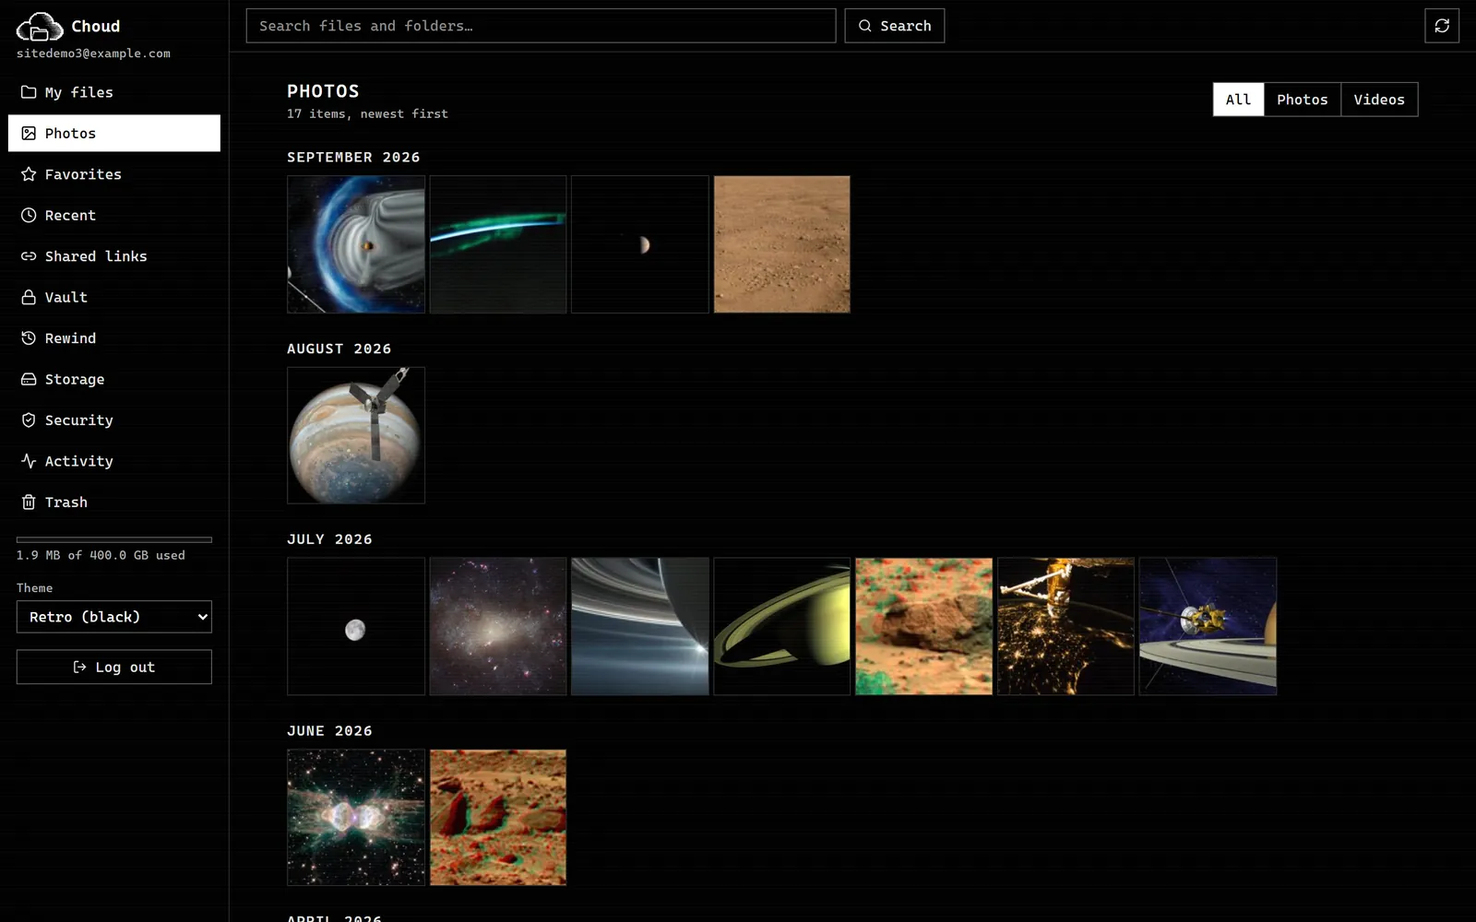
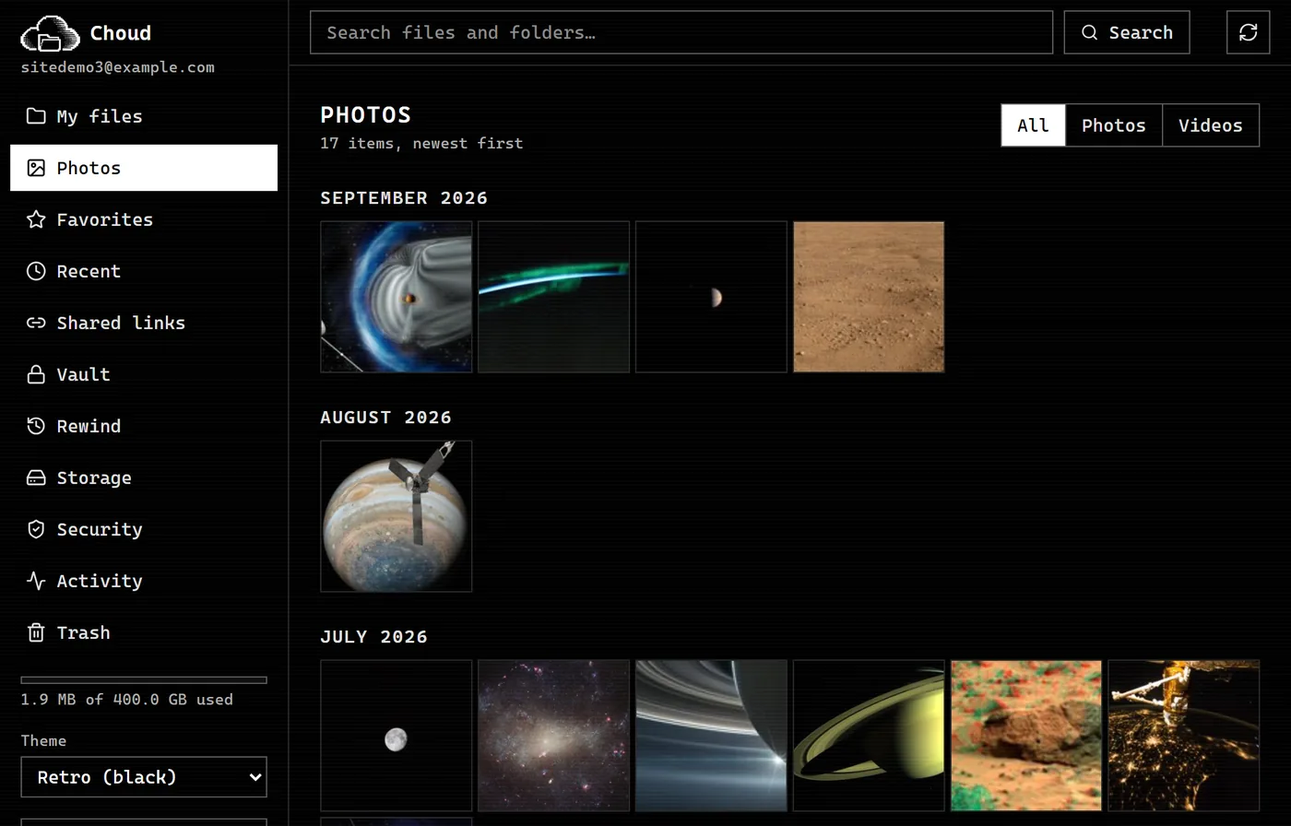
site: cut to five sections, legible screenshots (smaller capture viewport, phone overlaps the frame, theme-matched phone shot)

diff --git a/site/index.html b/site/index.html
@@ -34,10 +34,9 @@
       Choud
     </a>
     <nav class="top" aria-label="Sections">
-      <a class="opt" href="#store">How it works</a>
+      <a class="opt" href="#plug">Pull the plug</a>
       <a class="opt" href="#speed">Speed</a>
-      <a href="#self-host">Self-host</a>
-      <a class="opt" href="#download">Download</a>
+      <a href="#get">Get it</a>
       <a href="https://github.com/chinchoooo/Choud">GitHub</a>
       <button class="flip" id="flip" type="button" aria-label="Switch between black-on-white and white-on-black">[ ink / paper ]</button>
     </nav>
@@ -51,7 +50,7 @@
         <h1>Your own cloud. Your own server. Nobody else's.</h1>
         <p class="lead">Choud is a free, open-source Google Drive alternative you run on one spare Linux machine at home. Your phone backs up its photos to it, your laptop syncs folders with it, and every byte stays on a disk you own.</p>
         <div class="row-btns">
-          <a class="btn solid" href="#self-host">Run your own</a>
+          <a class="btn solid" href="#get">Run your own</a>
           <a class="btn" href="https://github.com/chinchoooo/Choud/releases/latest">Android app</a>
           <a class="btn" href="https://github.com/chinchoooo/Choud">Read the code</a>
         </div>
@@ -103,31 +102,10 @@
     </div>
   </div>
 
-  <section id="store">
-    <div class="wrap split">
-      <div>
-        <h2>What just happened when you dropped that file</h2>
-        <p>That was the real naming rule from Choud's storage engine, run on your own device. Here is what the engine does for every file you give it:</p>
-        <ol class="steps">
-          <li><span>It names the file by its SHA-256 hash, a fingerprint of the bytes. The name is the content.</span></li>
-          <li><span>It files it under the first two characters, so no folder ever grows without end.</span></li>
-          <li><span>It writes to a temporary name, flushes the bytes to the disk, renames, then flushes the folder entry.</span></li>
-          <li><span>Same bytes under any name: stored once.</span></li>
-        </ol>
-        <p style="margin-top:1rem" class="muted">Downloads re-hash the stored bytes first, so a damaged file is caught instead of served.</p>
-      </div>
-      <div>
-        <h3>See step three go wrong</h3>
-        <p>Most storage trouble happens when the power dies halfway through saving. The next section lets you cut it.</p>
-        <a class="btn" href="#plug">Pull the plug ↓</a>
-      </div>
-    </div>
-  </section>
-
   <section id="plug" data-plug>
     <div class="wrap">
       <h2>Pull the plug</h2>
-      <p>Press the button, then pull the plug while the file is being written. Both disks lose power at the same instant.</p>
+      <p>Choud names every file by its fingerprint, writes it to a temporary name, flushes it to the disk, then renames it. Press the button, then cut the power mid-save and see why that order matters.</p>
       <div class="plug-grid">
         <div class="disk" id="disk-a">
           <h3>An app that saves over the old file</h3>
@@ -152,90 +130,37 @@
         <button class="btn solid" id="plug-btn" type="button">Start saving report.pdf</button>
         <button class="btn" id="plug-reset" type="button" hidden>Try again</button>
       </div>
-      <p class="caption">A simplified animation of the rule the engine follows. The real thing is tested by killing a process mid-write: <a href="https://github.com/chinchoooo/Choud/blob/main/engine/tests/durability_tests.cpp">durability_tests.cpp</a>.</p>
+      <p class="caption">A simplified animation of the engine's rule. The real thing is tested by killing a process mid-write: <a href="https://github.com/chinchoooo/Choud/blob/main/engine/tests/durability_tests.cpp">durability_tests.cpp</a>.</p>
     </div>
   </section>
 
-  <section id="built">
+  <section id="app">
     <div class="wrap split">
-      <div>
-        <h2>Two halves. The one that touches your bytes never touches the network.</h2>
-        <p>A Python API owns accounts, permissions, versions, sharing and search. A C++ engine owns hashing, storage and deduplication. Only the API can talk to the engine. Click a box.</p>
-        <div class="arch" role="group" aria-label="Architecture">
-          <button type="button" data-note="clients" aria-pressed="true">Browser · Android · Desktop</button>
-          <div class="edge">HTTP, over Tailscale or your home network</div>
-          <button type="button" data-note="caddy" aria-pressed="false">Caddy (the front door)</button>
-          <div class="edge">→</div>
-          <button type="button" data-note="api" aria-pressed="false">Python API (FastAPI)</button>
-          <div class="edge">↔ <button type="button" data-note="db" aria-pressed="false" style="display:inline;padding:0.1rem 0.5rem">PostgreSQL</button></div>
-          <div class="edge dashed">internal network only</div>
-          <button type="button" data-note="engine" aria-pressed="false">C++ engine</button>
-          <div class="edge">→</div>
-          <button type="button" data-note="disk" aria-pressed="false">Your disk</button>
-        </div>
+      <div class="shots-photos">
+        <figure class="frame"><div class="bar" aria-hidden="true"><i></i><i></i><i></i></div>
+          <img class="logo-light" src="assets/shots/v0.5.1-photos-paper.webp" alt="The Choud photo timeline: space photos grouped by month, in the app's black-and-white retro theme" width="1400" height="896" loading="lazy" decoding="async">
+          <img class="logo-dark" src="assets/shots/v0.5.1-photos-ink.webp" alt="The Choud photo timeline: space photos grouped by month, in the app's white-on-black retro theme" width="1400" height="896" loading="lazy" decoding="async"></figure>
+        <div class="phone">
+          <img class="logo-light" src="assets/shots/v0.5.1-photos-phone.webp" alt="The same photo timeline on a phone-width screen" width="480" height="1039" loading="lazy" decoding="async">
+          <img class="logo-dark" src="assets/shots/v0.5.1-photos-phone-ink.webp" alt="The same photo timeline on a phone-width screen, white on black" width="480" height="1039" loading="lazy" decoding="async"></div>
       </div>
       <div>
-        <div class="arch-note" id="arch-note" aria-live="polite">
-          <h3>Browser, Android app, desktop client</h3>
-          <p>Talk only to the API, over Tailscale or your home network. They never reach the engine or the database.</p>
-        </div>
-        <p class="caption">Code: <a href="https://github.com/chinchoooo/Choud/tree/main/server">server/</a> · <a href="https://github.com/chinchoooo/Choud/tree/main/engine">engine/</a> · <a href="https://github.com/chinchoooo/Choud/tree/main/web">web/</a> · <a href="https://github.com/chinchoooo/Choud/tree/main/android">android/</a> · <a href="https://github.com/chinchoooo/Choud/tree/main/client">client/</a></p>
+        <h2>A real app, not a folder of scripts</h2>
+        <ul class="plain">
+          <li><b>Photos</b> back up from your Android phone with their real dates, and the timeline stays quick on a slow link.</li>
+          <li><b>Search</b> finds words inside PDFs, Word files and code.</li>
+          <li><b>Versions and trash:</b> every overwrite is restorable, and Rewind puts a whole folder back to an earlier moment.</li>
+          <li><b>Share</b> by link, with an expiry and a password, and one switch to pause them all.</li>
+          <li><b>Vault, invites, two-factor login, nightly backups.</b></li>
+        </ul>
+        <p class="caption">Real screenshots on demo data (public-domain NASA images).</p>
       </div>
-    </div>
-  </section>
-
-  <section id="features">
-    <div class="wrap">
-      <h2>What it does for you</h2>
-      <div class="chapters">
-        <div class="chapter shot-first">
-          <div class="visual">
-            <div class="shots-photos">
-              <figure class="frame"><div class="bar" aria-hidden="true"><i></i><i></i><i></i></div>
-            <img class="logo-light" src="assets/shots/v0.5.1-photos-paper.webp" alt="The Choud photo timeline: space photos grouped by month, shown in the app's black-and-white retro theme" width="1600" height="1000" loading="lazy" decoding="async">
-            <img class="logo-dark" src="assets/shots/v0.5.1-photos-ink.webp" alt="The Choud photo timeline: space photos grouped by month, shown in the app's black-and-white retro theme" width="1600" height="1000" loading="lazy" decoding="async"></figure>
-              <div class="phone"><img src="assets/shots/v0.5.1-photos-phone.webp" alt="The same photo timeline on a phone-width screen" width="560" height="1212" loading="lazy" decoding="async"></div>
-            </div>
-          </div>
-          <div><h3>Photos</h3><p>The Android app backs up your camera roll in the background, keeping each photo's real date, and resumes if the connection drops. The timeline paints blurry placeholders first and fills in a screenful of thumbnails at a time, so it stays quick on a slow link.</p><p class="muted small">Shown: demo data (public-domain NASA images) in the app's retro theme.</p></div>
-        </div>
-        <div class="chapter">
-          <div><h3>Find and view</h3><p>Search by file name and by what is written inside documents: text, code, PDF, Word and OpenDocument. Images, video, audio, PDF and text open in built-in viewers, so you need no other app.</p></div>
-          <div class="visual">
-            <figure class="frame"><div class="bar" aria-hidden="true"><i></i><i></i><i></i></div>
-            <img src="assets/shots/v0.5.1-files-paper.webp" alt="The Files page listing a folder with a PDF and a text file, each with a size, date, star and download link" width="1600" height="622" loading="lazy" decoding="async"></figure>
-          </div>
-        </div>
-        <div class="chapter solo">
-          <div><h3>Never lose anything</h3><p>Every overwrite is a new version you can restore, and deleted files wait in a trash. Rewind puts any folder back the way it was at an earlier moment, with a preview first: an undo for ransomware and bad syncs.</p></div>
-        </div>
-        <div class="chapter shot-first">
-          <div class="visual">
-            <figure class="frame"><div class="bar" aria-hidden="true"><i></i><i></i><i></i></div>
-            <img src="assets/shots/v0.5.1-shares-paper.webp" alt="The shared links page showing one link with an expiry date, a password and a download count, with Copy link and Revoke buttons" width="1600" height="578" loading="lazy" decoding="async"></figure>
-          </div>
-          <div><h3>Share</h3><p>Links with an expiry and a password, view-only or "add and edit". File-request links let people send you files without seeing anything. The people you share with need no account, and one switch pauses every link at once.</p></div>
-        </div>
-        <div class="chapter solo">
-          <div><h3>Vault and people</h3><p>A vault sealed in your browser: the server never sees file contents or names, only how many sealed files there are, their sizes and when they were added. Invite family and friends with one-time codes; each gets their own storage and quota.</p></div>
-        </div>
-        <div class="chapter">
-          <div><h3>Four themes</h3><p>Two retro looks, black on white and white on black, plus an ordinary light and dark theme for people who prefer something plainer. Pick one in the sidebar; the choice follows you around the app.</p></div>
-          <div class="visual">
-            <figure class="frame"><div class="bar" aria-hidden="true"><i></i><i></i><i></i></div>
-            <img src="assets/shots/v0.5.1-photos-light.webp" alt="The same photo timeline in the app's ordinary light theme" width="1600" height="1000" loading="lazy" decoding="async"></figure>
-            <p class="caption" style="margin-top:1.1rem">The ordinary light theme.</p>
-          </div>
-        </div>
-      </div>
-      <p class="muted" style="margin-top:1rem">Also: a desktop client that mirrors a folder both ways with conflict copies and never a silent overwrite, optional two-factor login, nightly verified backups, and webhook alerts. All screenshots are the real app running on demo data.</p>
     </div>
   </section>
 
   <section id="speed">
     <div class="wrap">
       <h2>As fast as Drive on one big file. Slower on a thousand small ones.</h2>
-      <p>The benchmark script reproduces the line speeds from Gizmodo's and Cloudwards' published Google Drive tests and measures how much of the line each service uses.</p>
       <div class="scroll">
         <table>
           <thead><tr><th>Test</th><th>Google Drive (published)</th><th>Choud</th><th>Difference</th></tr></thead>
@@ -247,103 +172,53 @@
           </tbody>
         </table>
       </div>
-      <p style="margin-top:1rem">Why the slower row: Choud flushes every file to disk before it counts as saved, which is what keeps it intact through a power cut. It is a deliberate trade, and the next section's demo is the reason.</p>
-      <p>The photo grid is quick because a screen of 24 thumbnails is one request instead of 24: 151 ms the old way, 15 ms now, and 13 ms to find out nothing changed. Those two are measured on the server itself.</p>
-      <p class="caption">Choud: one run each, on the author's home server (Linux Mint, 4 CPUs, v0.5.1), with the client on the same machine and the line speeds simulated by scripts/benchmark.py. Google Drive: Gizmodo's (500 MB) and Cloudwards' (5 GB) published runs, each on its own network. Indicative, not a verdict. <a href="https://github.com/chinchoooo/Choud/blob/main/docs/benchmarks.md">Every number, and how to repeat it.</a></p>
+      <p style="margin-top:1rem">The slower row is the price of the demo above: every file is flushed to disk before it counts as saved. A screen of 24 thumbnails takes 15 ms as one request instead of 151 ms as 24.</p>
+      <p class="caption">Choud: one run each on the author's home server (Linux Mint, 4 CPUs, v0.5.1), client on the same machine, line speeds simulated by scripts/benchmark.py; the 15 ms and 151 ms figures are measured on the server itself. Drive: Gizmodo's (500 MB) and Cloudwards' (5 GB) published runs on their own networks. Indicative, not a verdict. <a href="https://github.com/chinchoooo/Choud/blob/main/docs/benchmarks.md">Every number, and how to repeat it.</a></p>
     </div>
   </section>
 
   <section id="landlord">
     <div class="wrap">
       <h2>The landlord problem</h2>
-      <p>Most cloud drives work the same way: your memories sit in someone else's building, and you pay rent to keep them there. It is a deal worth reading twice.</p>
       <div class="scroll">
         <table>
-          <thead><tr><th>The question</th><th>A rented cloud drive</th><th>Choud</th></tr></thead>
+          <thead><tr><th></th><th>A rented cloud drive</th><th>Choud</th></tr></thead>
           <tbody>
-            <tr><td>How much room do I get?</td><td>15 GB free, shared with your mail and photos. Then a monthly bill, for as long as you want your files.</td><td>Your whole disk. Buy a bigger one once.</td></tr>
-            <tr><td>Whose computer holds my files?</td><td>The company's servers.</td><td>The machine in your house.</td></tr>
-            <tr><td>Who can lock me out?</td><td>The company can suspend or close an account under its terms, and the files go with it.</td><td>Nobody but you. Your disk can still fail, so Choud makes nightly verified backups.</td></tr>
-            <tr><td>What if the product goes away?</td><td>That is the company's call, on its date.</td><td>It is your server and MIT-licensed code, so it keeps running.</td></tr>
-            <tr><td>What does it cost?</td><td>A subscription.</td><td>Nothing. You bring the hardware and the electricity.</td></tr>
+            <tr><td>Room</td><td>15 GB free, shared with your mail and photos. Then a monthly bill, for as long as you want your files.</td><td>Your whole disk.</td></tr>
+            <tr><td>Who can lock you out</td><td>The company can suspend or close an account under its terms, and the files go with it.</td><td>Nobody but you. Backups are nightly and verified.</td></tr>
+            <tr><td>Cost</td><td>A subscription.</td><td>Nothing but your hardware and electricity.</td></tr>
           </tbody>
         </table>
       </div>
-      <div class="stamp-row"><span class="stamp" id="stamp" aria-hidden="true">YOURS</span><p class="muted small">The middle column comes from Google's published terms and storage plans: check them at <a href="https://policies.google.com/terms">policies.google.com/terms</a>. Drive is a good product, and on speed Choud only matches it. The difference is who owns the building.</p></div>
+      <div class="stamp-row"><span class="stamp" id="stamp" aria-hidden="true">YOURS</span><p class="muted small">The middle column comes from Google's published terms and storage plans: <a href="https://policies.google.com/terms">policies.google.com/terms</a>. Drive is a good product, and on speed Choud only matches it. The difference is who owns the building.</p></div>
     </div>
   </section>
 
-  <section id="self-host">
+  <section id="get">
     <div class="wrap split">
       <div>
         <h2>One old laptop. Three commands.</h2>
-        <p>You need a Linux machine with Docker. Setup writes strong random secrets. Deploy checks the machine, builds, starts, and waits until everything reports healthy.</p>
         <div class="codewrap">
 <pre id="cmds">git clone https://github.com/chinchoooo/Choud &amp;&amp; cd Choud
 scripts/setup.sh     # strong random secrets in .env
 scripts/deploy.sh    # checks, builds, starts, waits until healthy</pre>
           <button class="copy" type="button" data-copy="cmds">copy</button>
         </div>
-        <p style="margin-top:1rem" class="small muted">For your phone away from home, add Tailscale. The full guide, with backups and public links, is in <a href="https://github.com/chinchoooo/Choud/blob/main/docs/deployment.md">docs/deployment.md</a>.</p>
+        <p style="margin-top:1rem" class="small muted">Needs Linux and Docker. Add Tailscale to reach it from your phone away from home. Full guide: <a href="https://github.com/chinchoooo/Choud/blob/main/docs/deployment.md">docs/deployment.md</a>.</p>
+        <div class="row-btns" style="margin-top:1rem">
+          <a class="btn solid" href="https://github.com/chinchoooo/Choud">Get the code</a>
+          <a class="btn" href="https://github.com/chinchoooo/Choud/releases/latest">Android app (.apk)</a>
+        </div>
       </div>
       <div>
-<pre aria-label="Health check output">$ scripts/healthcheck.sh
-{
-  "status": "healthy",
-  "database": "healthy",
-  "engine": "healthy",
-  "storage": "healthy"
-}</pre>
-      </div>
-    </div>
-  </section>
-
-  <section id="download">
-    <div class="wrap">
-      <h2>Get it</h2>
-      <div class="dl">
-        <div><b>Android</b><span>v0.5.1 APK (under 1 MB) from <a href="https://github.com/chinchoooo/Choud/releases/latest">GitHub releases</a>, with <code>SHA256SUMS.txt</code> to check it. Allow "install unknown apps" for your browser. It has had little time on real phones so far.</span></div>
-        <div><b>Desktop</b><span>A command-line sync client. Install it with <code>pip install -e client/</code> on Windows, macOS or Linux. It is not a point-and-click installer yet.</span></div>
-        <div><b>Web</b><span>Comes with your server, in any browser.</span></div>
-        <div><b>iPhone</b><span>No app. The web version runs in any modern browser, but it has not been tested much on iPhones.</span></div>
-      </div>
-    </div>
-  </section>
-
-  <section id="gaps">
-    <div class="wrap">
-      <h2>What it is not, yet</h2>
-      <ul class="plain">
-        <li>The Android app has had little time on a real phone, and there is no iOS app.</li>
-        <li>You can share by link only. Sharing with named accounts is not built.</li>
-        <li>The desktop client is command-line only, and there is no importer from Google Drive (use Google Takeout, then upload the folder).</li>
-        <li>It is built for one household on one machine, not for thousands of users.</li>
-        <li>It has not had an independent security audit. Report problems privately via <a href="https://github.com/chinchoooo/Choud/blob/main/SECURITY.md">SECURITY.md</a>.</li>
-      </ul>
-      <p class="muted">Plans and history: <a href="https://github.com/chinchoooo/Choud/blob/main/docs/roadmap.md">roadmap</a> and <a href="https://github.com/chinchoooo/Choud/blob/main/CHANGELOG.md">changelog</a>.</p>
-    </div>
-  </section>
-
-  <section id="read">
-    <div class="wrap split">
-      <div>
-        <h2>Read it in an afternoon</h2>
-        <p>Built by one person: a C++ storage engine, a Python API, a React web app, a Kotlin Android app and a Python sync client. The docs explain the reasoning, not only the commands.</p>
+        <h3>Honest gaps</h3>
         <ul class="plain">
-          <li><a href="https://github.com/chinchoooo/Choud/blob/main/docs/guide.md">The guide</a> and <a href="https://github.com/chinchoooo/Choud/blob/main/docs/architecture.md">architecture</a></li>
-          <li><a href="https://github.com/chinchoooo/Choud/blob/main/CONTRIBUTING.md">How to contribute</a></li>
-          <li><a href="https://github.com/chinchoooo/Choud/blob/main/docs/benchmarks.md">Benchmarks, with the raw output</a></li>
+          <li>The Android app has had little time on real phones, and there is no iOS app.</li>
+          <li>The desktop client is command-line only.</li>
+          <li>Sharing is by link only. One household, one machine.</li>
+          <li>No independent security audit yet. <a href="https://github.com/chinchoooo/Choud/blob/main/SECURITY.md">Report problems privately.</a></li>
         </ul>
-        <p class="small muted">More of my work: <a href="https://chinchoooo.github.io/">chinchoooo.github.io</a>.</p>
-      </div>
-      <div>
-        <h3>Questions</h3>
-        <details><summary>Is it free?</summary><p>Yes. It is MIT-licensed. You pay only for your own hardware and electricity.</p></details>
-        <details><summary>Can I reach it away from home?</summary><p>Yes, over Tailscale. Public share links work from anywhere with <code>scripts/enable-public-links.sh</code>, through a separate door that can only reach shared files.</p></details>
-        <details><summary>Will it run on Windows or a Mac?</summary><p>To try it, yes: <code>make dev</code> with Docker Desktop. To keep your files, use Linux. Docker Desktop's virtual disk makes every write slow.</p></details>
-        <details><summary>What if the disk dies?</summary><p>Choud makes nightly verified backups, with scripts to restore them. Point them at a second disk or machine.</p></details>
-        <details><summary>Is it secure?</summary><p>It has optional two-factor login, rate limiting, hash-checked uploads and a separate door for public links. It has not been independently audited.</p></details>
-        <details><summary>Can my family use it?</summary><p>Yes. Invite them with one-time codes; each person gets their own storage and quota.</p></details>
+        <p class="small muted">Two halves: a Python API for accounts and sharing, and a C++ engine that stores your bytes and is never reachable from the network. <a href="https://github.com/chinchoooo/Choud/blob/main/docs/architecture.md">How it fits together.</a></p>
       </div>
     </div>
   </section>

diff --git a/site/js/main.js b/site/js/main.js
@@ -1,4 +1,4 @@
-// Page basics: theme flip, copy buttons, the architecture notes, the stamp.
+// Page basics: theme flip, copy buttons, the stamp.
 
 const root = document.documentElement;
 
@@ -23,26 +23,6 @@ document.querySelectorAll("[data-copy]").forEach((btn) => {
       btn.textContent = "select it";
     }
     setTimeout(() => (btn.textContent = "copy"), 1600);
-  });
-});
-
-// architecture: each box says what it owns
-const notes = {
-  clients: ["Browser, Android app, desktop client", "Talk only to the API, over Tailscale or your home network. They never reach the engine or the database."],
-  caddy: ["Caddy, the front door", "The only thing that listens on a port. A second door serves public share links and can reach nothing else."],
-  api: ["Python API (FastAPI)", "Accounts, permissions, versions, sharing and search. It decides who may do what, then asks the engine to move bytes."],
-  db: ["PostgreSQL", "Metadata: who owns what, every version, share links, the search index. It never holds file bytes."],
-  engine: ["C++ engine", "Hashing, storing by content, deduplication, assembling uploaded chunks. Only the API can reach it."],
-  disk: ["Your disk", "Files sit at objects/<first two hex>/<hash>. Written to a temporary name, flushed, renamed, flushed again."],
-};
-const out = document.getElementById("arch-note");
-document.querySelectorAll("[data-note]").forEach((btn) => {
-  btn.addEventListener("click", () => {
-    document.querySelectorAll("[data-note]").forEach((b) => b.setAttribute("aria-pressed", "false"));
-    btn.setAttribute("aria-pressed", "true");
-    const [title, body] = notes[btn.dataset.note];
-    out.querySelector("h3").textContent = title;
-    out.querySelector("p").textContent = body;
   });
 });
 

diff --git a/site/css/site.css b/site/css/site.css
@@ -1127,3 +1127,63 @@ footer .wrap {
 .chapter.solo p {
   max-width: 62ch;
 }
+
+/* screenshots: the desktop shot gets the whole column, the phone overlaps its corner */
+
+.shots-photos {
+  display: block;
+  position: relative;
+  padding-bottom: 2.2rem;
+  margin-right: 1.2rem;
+}
+
+.shots-photos .frame {
+  box-shadow: 4px 4px 0 var(--ink);
+}
+
+.shots-photos .phone {
+  position: absolute;
+  right: -1.2rem;
+  bottom: 0;
+  width: min(30%, 170px);
+  border-width: 5px;
+  border-radius: 16px;
+  box-shadow: 3px 3px 0 var(--ink);
+}
+
+@media (max-width: 560px) {
+  .shots-photos {
+    margin-right: 0.6rem;
+  }
+  .shots-photos .phone {
+    right: -0.6rem;
+    width: 34%;
+    border-width: 4px;
+    border-radius: 12px;
+  }
+}
+
+.phone .logo-dark {
+  display: none;
+}
+
+@media (prefers-color-scheme: dark) {
+  :root:not([data-theme="paper"]) .phone .logo-light {
+    display: none;
+  }
+  :root:not([data-theme="paper"]) .phone .logo-dark {
+    display: block;
+  }
+}
+
+:root[data-theme="ink"] .phone .logo-light {
+  display: none;
+}
+
+:root[data-theme="ink"] .phone .logo-dark {
+  display: block;
+}
+
+:root[data-theme="paper"] .phone .logo-dark {
+  display: none;
+}
